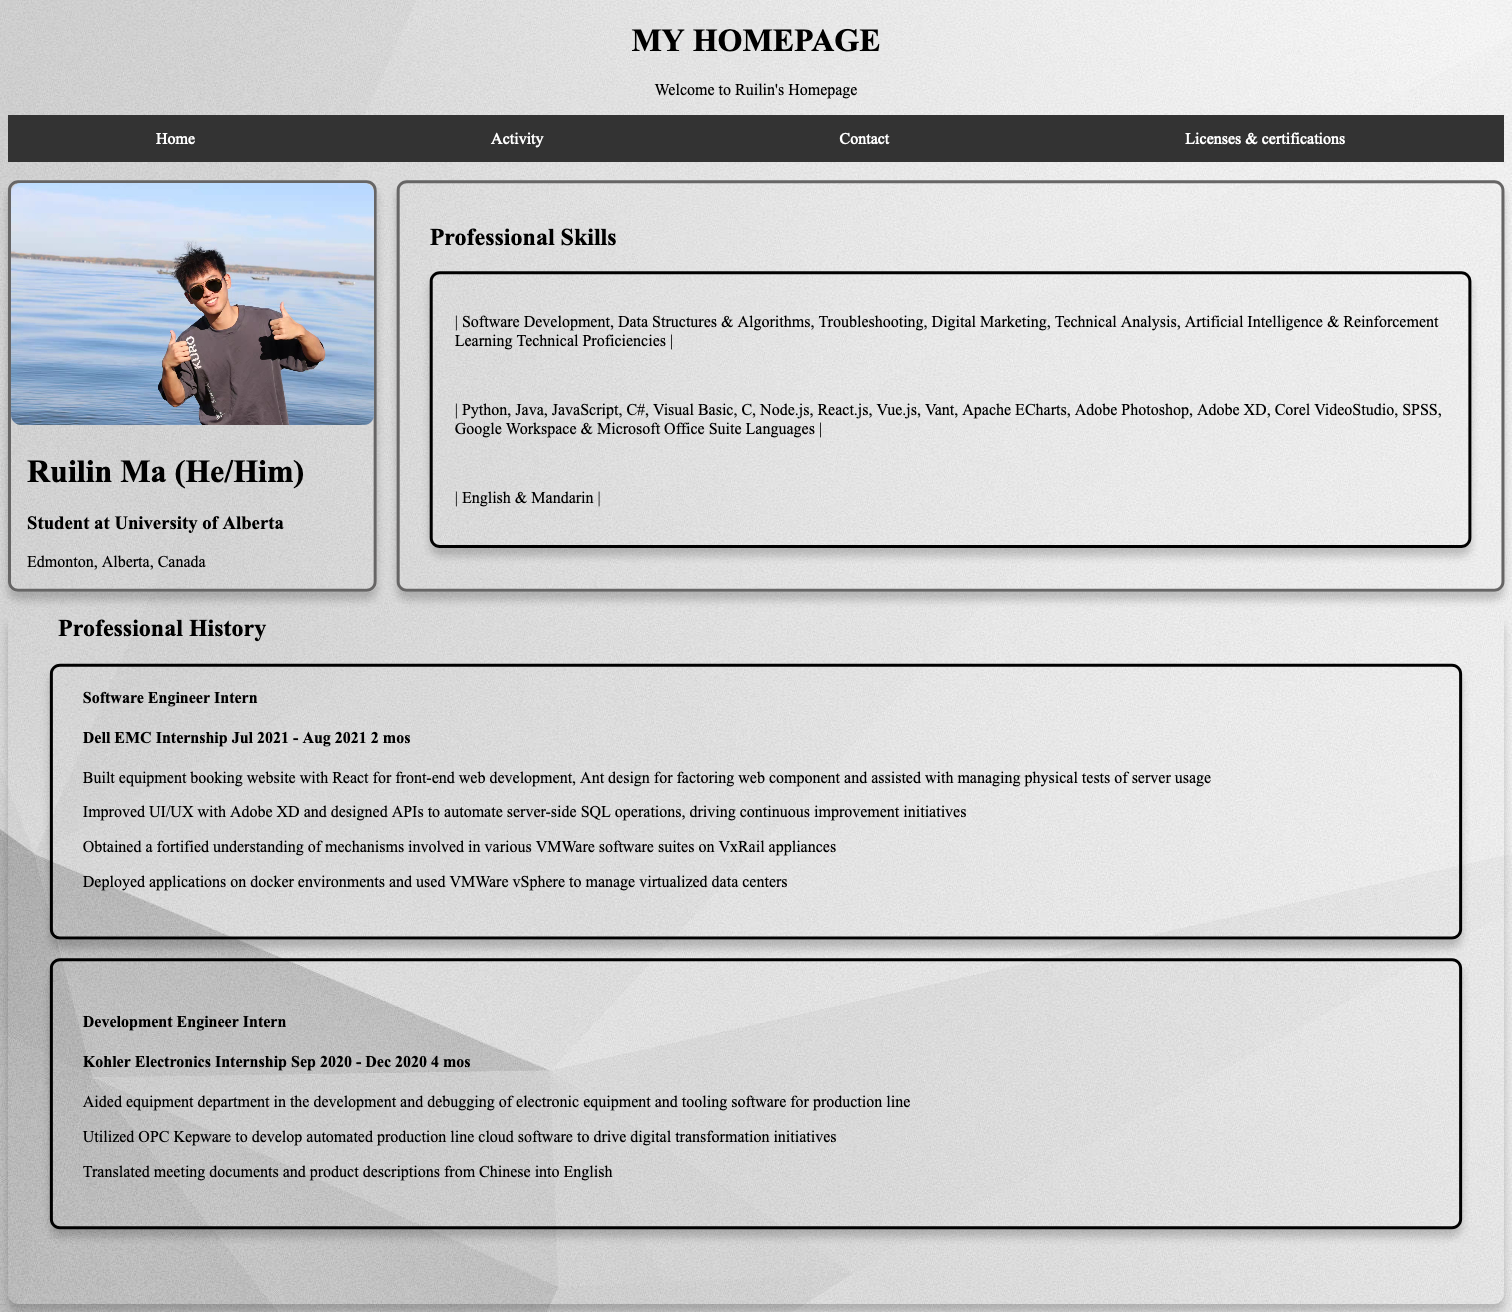
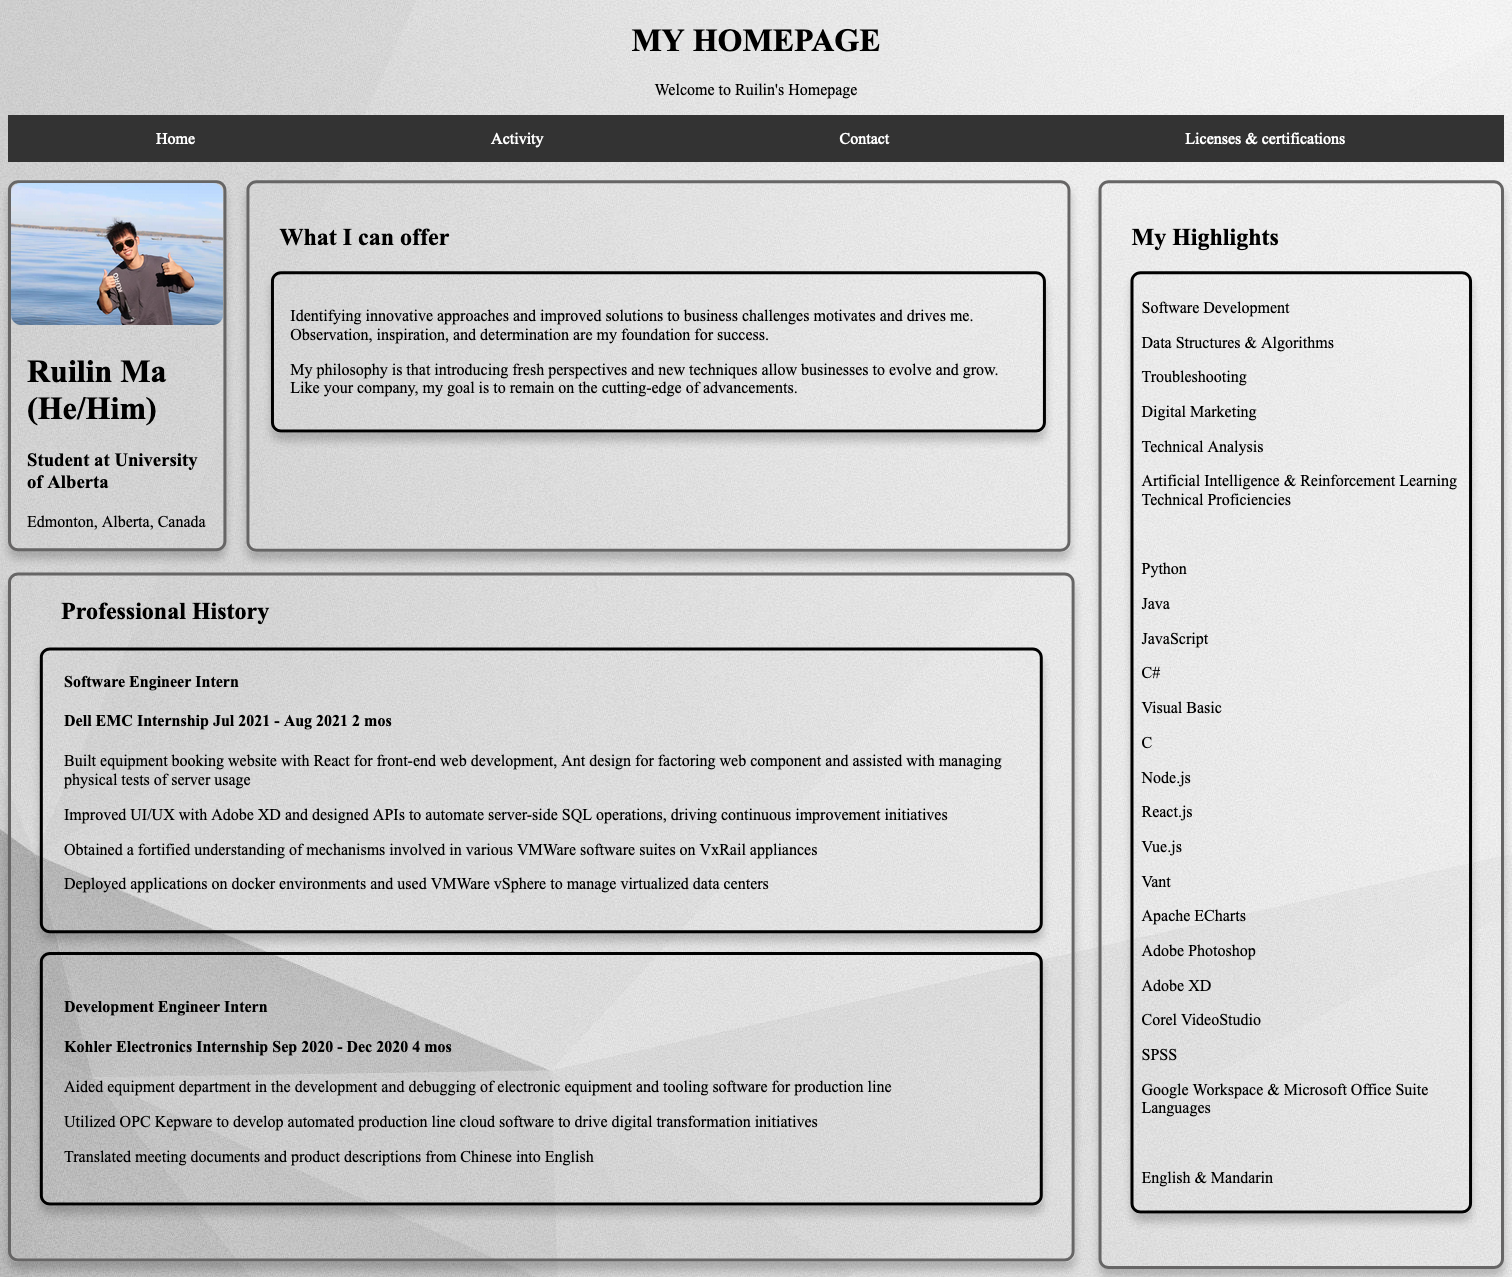
error fixed

Changed region(s): [[0.0, 0.0305, 1.0, 1.0]]

diff --git a/homepage/good.html b/homepage/good.html
@@ -17,6 +17,8 @@
   </header>
   <link rel="stylesheet" type="text/css" href="goodPageStyle.css" />
   <br />
+  <div class = "wholeSection">
+  <div>
   <div class = "topSection">
     <div class = "profileCard">
         <img class = "profileIMG" src="profileIMG.jpeg" alt="cover"/>
@@ -28,14 +30,10 @@
     </div>
     <div class = "offer">
         <div class = "offerCard">
-        
-        <h2 class = "offerTitle">Professional Skills</h2>
+        <h2 class = "offerTitle">What I can offer</h2>
         <div class = "offerContent">
-            <p>| Software Development, Data Structures & Algorithms, Troubleshooting, Digital Marketing, Technical Analysis, Artificial Intelligence & Reinforcement Learning Technical Proficiencies |</p>
-            <br />
-            <p>| Python, Java, JavaScript, C#, Visual Basic, C, Node.js, React.js, Vue.js, Vant, Apache ECharts, Adobe Photoshop, Adobe XD, Corel VideoStudio, SPSS, Google Workspace & Microsoft Office Suite Languages |</p>  
-            <br />
-            <p>| English & Mandarin |</p>
+            <p>Identifying innovative approaches and improved solutions to business challenges motivates and drives me. Observation, inspiration, and determination are my foundation for success.</p> 
+            <p>My philosophy is that introducing fresh perspectives and new techniques allow businesses to evolve and grow. Like your company, my goal is to remain on the cutting-edge of advancements.</p>
         </div>
         </div>
     </div>
@@ -59,5 +57,37 @@
         <p>Translated meeting documents and product descriptions from Chinese into English</p>
       </div> 
   </div>
+</div>
+  <div class = "sideBar">
+    <h2 class = "sideBarTitle">My Highlights</h2>
+    <div class = "sideBarContent">
+              <p>Software Development</p>
+              <p>Data Structures & Algorithms</p> 
+              <p>Troubleshooting</p> 
+              <p>Digital Marketing</p> 
+              <p>Technical Analysis</p> 
+              <p>Artificial Intelligence & Reinforcement Learning Technical Proficiencies</p>
+            <br />
+              <p>Python</p> 
+              <p>Java</p>
+              <p>JavaScript</p>
+              <p>C#</p>
+              <p>Visual Basic</p>
+              <p>C</p>
+              <p>Node.js</p>
+              <p>React.js</p>
+              <p>Vue.js</p>
+              <p>Vant</p>
+              <p>Apache ECharts</p>
+              <p>Adobe Photoshop</p>
+              <p>Adobe XD</p>
+              <p>Corel VideoStudio</p>
+              <p>SPSS</p>
+              <p>Google Workspace & Microsoft Office Suite Languages</p>
+            <br />
+              <p> English & Mandarin </p>
+    </div>
+  </div>
+</div>
 </body>
 </html>

diff --git a/homepage/ugly.html b/homepage/ugly.html
@@ -17,6 +17,8 @@
   </header>
   <link rel="stylesheet" type="text/css" href="badPageStyle.css" />
   <br />
+  <div class = "wholeSection">
+  <div>
   <div class = "topSection">
     <div class = "profileCard">
         <img class = "profileIMG" src="profileIMG.jpeg" alt="cover"/>
@@ -28,14 +30,10 @@
     </div>
     <div class = "offer">
         <div class = "offerCard">
-        
-        <h2 class = "offerTitle">Professional Skills</h2>
+        <h2 class = "offerTitle">What I can offer</h2>
         <div class = "offerContent">
-            <p>| Software Development, Data Structures & Algorithms, Troubleshooting, Digital Marketing, Technical Analysis, Artificial Intelligence & Reinforcement Learning Technical Proficiencies |</p>
-            <br />
-            <p>| Python, Java, JavaScript, C#, Visual Basic, C, Node.js, React.js, Vue.js, Vant, Apache ECharts, Adobe Photoshop, Adobe XD, Corel VideoStudio, SPSS, Google Workspace & Microsoft Office Suite Languages |</p>  
-            <br />
-            <p>| English & Mandarin |</p>
+            <p>Identifying innovative approaches and improved solutions to business challenges motivates and drives me. Observation, inspiration, and determination are my foundation for success.</p> 
+            <p>My philosophy is that introducing fresh perspectives and new techniques allow businesses to evolve and grow. Like your company, my goal is to remain on the cutting-edge of advancements.</p>
         </div>
         </div>
     </div>
@@ -59,5 +57,37 @@
         <p>Translated meeting documents and product descriptions from Chinese into English</p>
       </div> 
   </div>
+</div>
+  <div class = "sideBar">
+    <h2 class = "sideBarTitle">My Highlights</h2>
+    <div class = "sideBarContent">
+              <p>Software Development</p>
+              <p>Data Structures & Algorithms</p> 
+              <p>Troubleshooting</p> 
+              <p>Digital Marketing</p> 
+              <p>Technical Analysis</p> 
+              <p>Artificial Intelligence & Reinforcement Learning Technical Proficiencies</p>
+            <br />
+              <p>Python</p> 
+              <p>Java</p>
+              <p>JavaScript</p>
+              <p>C#</p>
+              <p>Visual Basic</p>
+              <p>C</p>
+              <p>Node.js</p>
+              <p>React.js</p>
+              <p>Vue.js</p>
+              <p>Vant</p>
+              <p>Apache ECharts</p>
+              <p>Adobe Photoshop</p>
+              <p>Adobe XD</p>
+              <p>Corel VideoStudio</p>
+              <p>SPSS</p>
+              <p>Google Workspace & Microsoft Office Suite Languages</p>
+            <br />
+              <p> English & Mandarin </p>
+    </div>
+  </div>
+</div>
 </body>
 </html>

diff --git a/homepage/goodPageStyle.css b/homepage/goodPageStyle.css
@@ -29,6 +29,8 @@
     width: 100%;
     border-radius: 10px;
     padding-bottom: 5%;
+    border: 3px solid rgb(102, 101, 101);
+    margin-top: 2%;
 }
 
 .internCardA{
@@ -126,5 +128,37 @@ padding: 2px 50px;
 body{
     background-image: url("homepageBackground(Good).jpeg");
     background-color: #cccccc;
+}
+
+.sideBarTitle{
+    padding-left: 30px;
+    padding-top: 20px;
+}
+
+
+.sideBarContent{
+    box-shadow: 0 8px 8px 0 rgba(0,0,0,0.2);
+    transition: 0.3s;
+    width: 80%;
+    border-radius: 10px;
+    padding:2%;
+    border: 3px solid black;
+    margin:0 auto;
+}
+
+.wholeSection{
+    display: flex;
+}
+
+.sideBar{
+    box-shadow: 0 8px 8px 0 rgba(0,0,0,0.2);
+    transition: 0.3s;
+    width: 80%;
+    height: 100%;
+    margin-left: 2%;
+    padding-bottom: 3.5%;
+    border-radius: 10px;
+    height: 98.5%;
+    border: 3px solid rgb(102, 101, 101);
 }
 

diff --git a/homepage/badPageStyle.css b/homepage/badPageStyle.css
@@ -80,3 +80,7 @@ ul {
     display: flex;
 }
 
+.sideBar{
+    background-color: black;
+}
+
